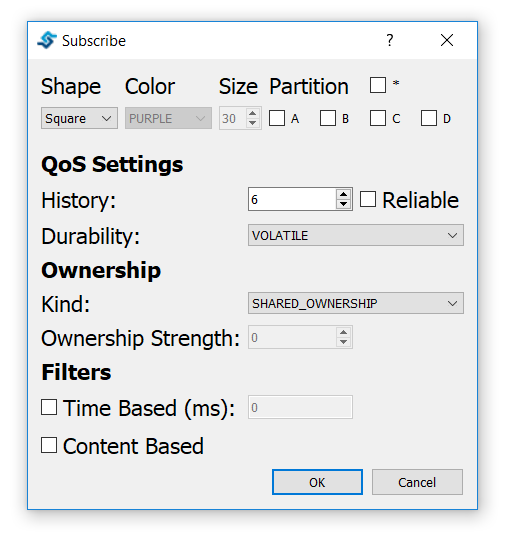
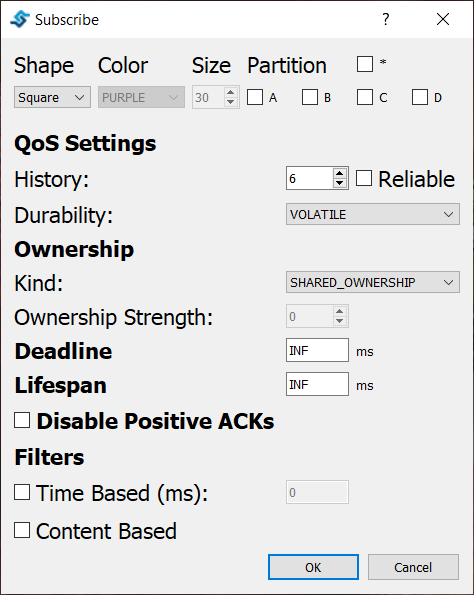
Refs #5462 Update doc.

diff --git a/README.md b/README.md
@@ -14,7 +14,7 @@ If you have already installed eProsima Fast CDR and eProsima Fast RTPS, you can 
 
 ## Building from sources
 
-You will need Qt5, eProsima Fast CDR and eProsima Fast RTPS to build the Shapes Demo. The default configuration assumes you have eProsima libraries installed in your system: 
+You will need Qt5, eProsima Fast CDR and eProsima Fast RTPS to build the Shapes Demo. The default configuration assumes you have eProsima libraries installed in your system:
 
 #### Linux
 
@@ -28,7 +28,7 @@ You will need Qt5, eProsima Fast CDR and eProsima Fast RTPS to build the Shapes 
     cmake -G "Visual Studio 14 2015 Win64" ..
     cmake --build .
 
-If you do not have eProsima libraries installed in your system, you can build it as a dependency by specifying 
+If you do not have eProsima libraries installed in your system, you can build it as a dependency by specifying
 
     $ cmake ../ -DTHIRDPARTY=ON
 
@@ -48,14 +48,19 @@ The Publish Window allows you to generate a new Shape and corresponding RTPS Top
 
 There are multiple parameters that the user can define in this menu:
 
-* Shape: Defines the topic where the publication is going to occur. Three different shapes can be published: Square, Circle and Triangle. 
+* Shape: Defines the topic where the publication is going to occur. Three different shapes can be published: Square, Circle and Triangle.
 * Color: Defines the color of the Shape. This parameter will be used as key; that is, a way to distinguish between multiple instances of the same shape.
 * Size: Allows you to control how big the shape is. The size can vary between 1 and 99.
-* Partition: You can select different partitions to differentiate groups of publishers and subscribers. You can select between four partitions (A, B, C and D). Additionally you can select the “*” partition, that will be matched against all other partitions. You should note, however, that using the “wildcard (*)” partition is not the same as not using any partition. A publisher that uses the wildcard partition will not be matched with a subscriber that uses no partitions. 
+* Partition: You can select different partitions to differentiate groups of publishers and subscribers. You can select between four partitions (A, B, C and D). Additionally you can select the “*” partition, that will be matched against all other partitions. You should note, however, that using the “wildcard (*)” partition is not the same as not using any partition. A publisher that uses the wildcard partition will not be matched with a subscriber that uses no partitions.
 * Reliable: You can select to disable the Reliable check-box to use a Best-Effort Publisher.
-* History and Durability: The History of the Publishers is set to KEEP_LAST by default. You can select the number of samples that the Publisher is going to save. You can also select whether this History is going to be VOLATILE or TRANSIENT_LOCAL. The latter will send the last stored values to subscribers joining after the Publisher has been created. 
+* History and Durability: The History of the Publishers is set to KEEP_LAST by default. You can select the number of samples that the Publisher is going to save. You can also select whether this History is going to be VOLATILE or TRANSIENT_LOCAL. The latter will send the last stored values to subscribers joining after the Publisher has been created.
 * Liveliness: You can select the Liveliness Qos for the Publisher between three different values: AUTOMATIC, MANUAL_BY_PARTICIPANT and MANUAL_BY_TOPIC. You can also set the Lease Duration for the Publisher.
-* Ownership: The Ownership Qos determines whether the instance (color) of the Topic (Shape) is owned by a single Publisher. If the selected ownership is EXCLUSIVE the Publisher will use the Ownership strength value as the strength of its publication. Only the publisher with the highest strength can publish in the same Topic with the same Key. 
+* Ownership: The Ownership Qos determines whether the instance (color) of the Topic (Shape) is owned by a single Publisher. If the selected ownership is EXCLUSIVE the Publisher will use the Ownership strength value as the strength of its publication. Only the publisher with the highest strength can publish in the same Topic with the same Key.
+* Deadline: The Deadline Qos determines the maximum expected amount of time between samples.
+* Lifespan: The Lifespan Qos determines the duration while the sample is still valid.
+* Disable Positive ACKs: If enabled, doesn't expects for positive ACKs from the subscriber, considering delivered sent samples after the indicated duration if no negative ACKNACK was received.
+
+Take into acoount that Disabling positive ACKs and modify Lifespan will not have any visual effect.
 
 ### Subscribe
 
@@ -65,8 +70,10 @@ The Subscribe Window allows you to read and represent existing shapes on the net
 
 This menu provides the options present in the Publish Windows plus the following additions:
 
-* Time Based Filter: This value can be used to specify the minimum amount of time (in milliseconds) that the subscriber wants between updates. 
-* Content Based Filter: This filter draws a rectangle in the shapes window. Only the instances that are included in this rectangle are accepted. The rest of them are ignored. The user can dynamically resize and move this content filter. 
+* Time Based Filter: This value can be used to specify the minimum amount of time (in milliseconds) that the subscriber wants between updates.
+* Content Based Filter: This filter draws a rectangle in the shapes window. Only the instances that are included in this rectangle are accepted. The rest of them are ignored. The user can dynamically resize and move this content filter.
+
+Take into acoount that Disabling positive ACKs and modify Lifespan will not have any visual effect.
 
 ## Miscellaneous Options and Windows
 
@@ -79,16 +86,16 @@ Under the Options->Preferences tab you will find the following menu:
 You can modify the following settings:
 
 * Transport: You can select between UDP protocol, TCP LAN Server, TCP WAN Server or TCP Client.
-With UDP Protocol the applicacion will work sending multicast packets to communicate with other apps. 
+With UDP Protocol the applicacion will work sending multicast packets to communicate with other apps.
 TCP protocol needs a minimal configuration to create the connection between the machines:
 
-	- If the applicacion is going to run as a LAN server, it only needs to set the listening port where it is going to accept connections (note that firewall must be configured to allow inbound traffic).
-	- If the applicacion is going to run as a WAN server, it needs to set the listening port where it is going to accept connections and the server WAN address (note that firewall must be configured to allow inbound traffic and router must relay listening port traffic to server machine).
-	- If the applicacion is going to run as a client it needs to know the IP address of the server (or its WAN address if both instances don't share network) and the port where server is listening for connections.
+    - If the applicacion is going to run as a LAN server, it only needs to set the listening port where it is going to accept connections (note that firewall must be configured to allow inbound traffic).
+    - If the applicacion is going to run as a WAN server, it needs to set the listening port where it is going to accept connections and the server WAN address (note that firewall must be configured to allow inbound traffic and router must relay listening port traffic to server machine).
+    - If the applicacion is going to run as a client it needs to know the IP address of the server (or its WAN address if both instances don't share network) and the port where server is listening for connections.
 
 * Domain ID: You can select different Domain Ids. Shapes Demo instances using different Domain Ids cannot not communicate. To modify the Domain ID the user needs to stop the participant (thus removing all existing Publishers and Subscribers) and start a new one with the new Domain Id.
-* Update interval: This value changes the publication period for all the Publishers. 
-* Length:  This  scrollbar allows you to change how much the Shape moves between two write calls. 
+* Update interval: This value changes the publication period for all the Publishers.
+* Length:  This  scrollbar allows you to change how much the Shape moves between two write calls.
 
 ### Endpoints and Output tab
 
